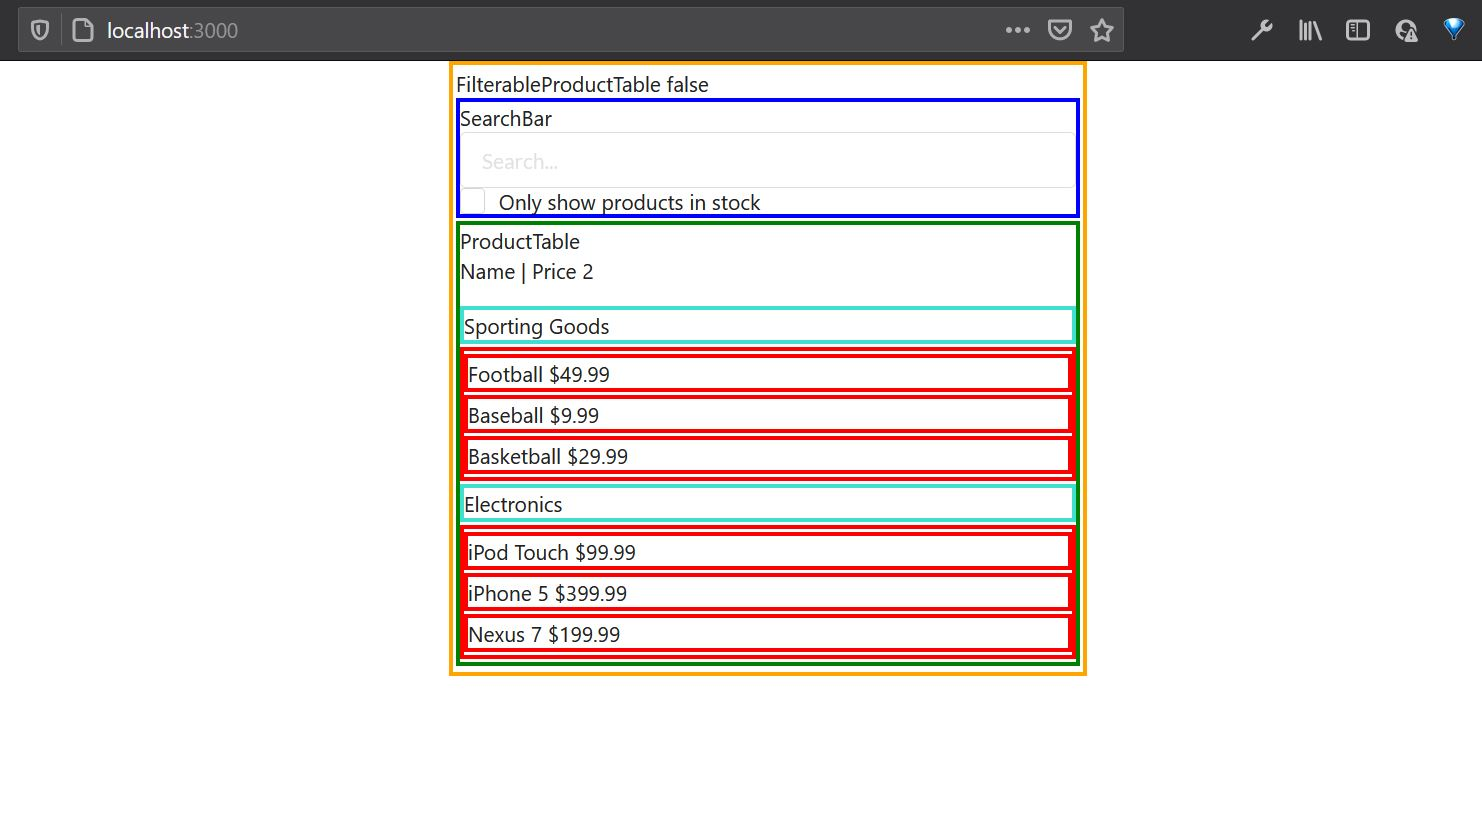
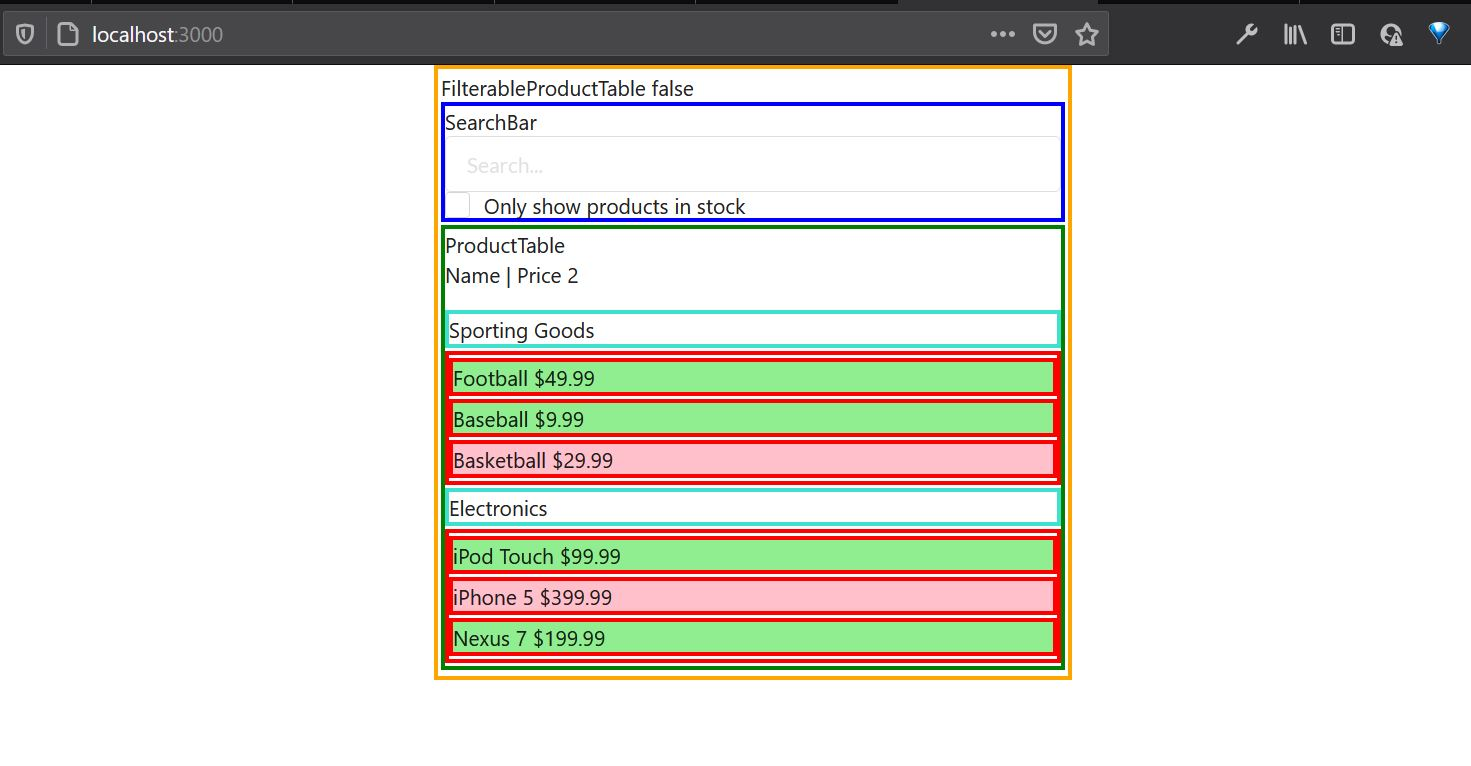
added background color for the rows based on the availability of the product

Changed region(s): [[0.0, 0.0, 1.0, 0.9008]]

diff --git a/02-think-in-react/src/components/ProductRow.js b/02-think-in-react/src/components/ProductRow.js
@@ -1,9 +1,19 @@
 import React from 'react';
 
 function ProductRow({ products }) {
+  const getBackgroundColor = (isStockOnly) => {
+    return isStockOnly ? 'lightgreen' : 'pink';
+  };
+
   const renderedProducts = products.map((product) => {
+    const color = getBackgroundColor(product.stocked);
+
     return (
-      <div className="ui container product-row">
+      <div
+        key={product.name}
+        className="ui container product-row"
+        style={{ backgroundColor: `${color}` }}
+      >
         {product.name} {product.price}
       </div>
     );

diff --git a/02-think-in-react/src/components/ProductTable.js b/02-think-in-react/src/components/ProductTable.js
@@ -28,7 +28,7 @@ function ProductTable({ categories, products, filterText, isStockOnly }) {
 
   const rendered = categories.map((category) => {
     return (
-      <div>
+      <div key={category + 'key'}>
         <ProductCategoryRow category={category} key={category}></ProductCategoryRow>
         <ProductRow products={getProductsByCategory(category)} />
       </div>

diff --git a/02-think-in-react/README.md b/02-think-in-react/README.md
@@ -1,10 +1,10 @@
 Solution for: (https://reactjs.org/docs/thinking-in-react.html)
 
-![alt text](https://1.bp.blogspot.com/-oeVh9HSClqo/XwN1QW_KUTI/AAAAAAAAAXA/j11J8_IhkPkoKNfqMofLOJW4hgQaegbQQCLcBGAsYHQ/s1600/Capture01.JPG)
+![alt text](https://1.bp.blogspot.com/-I6iU9o7YmRI/XwN_14bEq-I/AAAAAAAAAXo/_ggEiqzLyEs5a582x3nDJ5oLgqNMPe6gACLcBGAsYHQ/s1600/Capture01.JPG)
 
-![alt text](https://1.bp.blogspot.com/-4lNzXfv7pMk/XwN1ZRl0URI/AAAAAAAAAXI/sNp-alclHskpuA_ZCyG_fkDDIwuICg4vACLcBGAsYHQ/s1600/Capture02.JPG)
+![alt text](https://1.bp.blogspot.com/-L21IydoX-yE/XwN_10o6c_I/AAAAAAAAAXs/6H-4UjJz-tcoxWh-fVlLk-a_TW0o66zjwCLcBGAsYHQ/s1600/Capture02.JPG)
 
-![alt text](https://1.bp.blogspot.com/-Yg6mqawnH-o/XwN1QdJPN-I/AAAAAAAAAXE/5HpuBKHmscIcFwUvcHeTuRzvUHSZ0UDqQCLcBGAsYHQ/s1600/Capture03.JPG)
+![alt text](https://1.bp.blogspot.com/-F8D76Drk2Vg/XwN_16IQZnI/AAAAAAAAAXw/1XtvsnbgCWQ-Tp535A9_N7btAMTcOm1awCLcBGAsYHQ/s1600/Capture03.JPG)
 
 ### `npm install`
 

diff --git a/readme.md b/readme.md
@@ -6,8 +6,8 @@
 
 02-think-in-react
 
-![alt text](https://1.bp.blogspot.com/-oeVh9HSClqo/XwN1QW_KUTI/AAAAAAAAAXA/j11J8_IhkPkoKNfqMofLOJW4hgQaegbQQCLcBGAsYHQ/s1600/Capture01.JPG)
+![alt text](https://1.bp.blogspot.com/-I6iU9o7YmRI/XwN_14bEq-I/AAAAAAAAAXo/_ggEiqzLyEs5a582x3nDJ5oLgqNMPe6gACLcBGAsYHQ/s1600/Capture01.JPG)
 
-![alt text](https://1.bp.blogspot.com/-4lNzXfv7pMk/XwN1ZRl0URI/AAAAAAAAAXI/sNp-alclHskpuA_ZCyG_fkDDIwuICg4vACLcBGAsYHQ/s1600/Capture02.JPG)
+![alt text](https://1.bp.blogspot.com/-L21IydoX-yE/XwN_10o6c_I/AAAAAAAAAXs/6H-4UjJz-tcoxWh-fVlLk-a_TW0o66zjwCLcBGAsYHQ/s1600/Capture02.JPG)
 
-![alt text](https://1.bp.blogspot.com/-Yg6mqawnH-o/XwN1QdJPN-I/AAAAAAAAAXE/5HpuBKHmscIcFwUvcHeTuRzvUHSZ0UDqQCLcBGAsYHQ/s1600/Capture03.JPG)
+![alt text](https://1.bp.blogspot.com/-F8D76Drk2Vg/XwN_16IQZnI/AAAAAAAAAXw/1XtvsnbgCWQ-Tp535A9_N7btAMTcOm1awCLcBGAsYHQ/s1600/Capture03.JPG)
